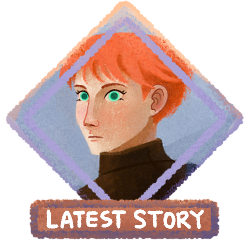
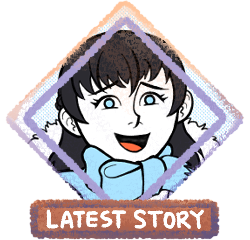
unc update

diff --git a/public/stories/story-12.html b/public/stories/story-12.html
@@ -46,7 +46,7 @@
         </tbody>
     </table>
 
-    <p style="text-align: center;">Jump to: <a href="#part2">Part 2</a></p>
+    <p style="text-align: center;">Jump to: <a href="#part2">Part 2</a> | <a href="#part3">Part 3</a></p>
 
     <img style="margin-top: 30px;" src="https://gallery.eousercontent.com/45fed8ce-b513-11ef-8295-2d7ea4f395ef%2Fmedia-manager%2F1772328641208-sf%20-%20i%20merlin.jpg" alt="Cover art for 'I, Merlin'"/>
 
@@ -290,7 +290,7 @@
         <p>She waved farewell to the other rebels, turned around, and ran after Gavrill with a smile on her face.</p>
     </div>
 
-    <!-- <a name="part3 style="text-align: center; color: var(--text-color);"><p>&mdash;</p></a>
+    <a name="part3" style="text-align: center; color: var(--text-color);"><p>&mdash;</p></a>
     <p>With heavy feet and a heavier heart, Leyna Morozov dragged herself and her crushed dreams home. Gavrill Vorobyev was nowhere to be seen. He could&rsquo;ve walked down any of the many streets that the alleyway opened up to. It wasn&rsquo;t worth trying to look for him now &mdash; the sky was darkening overhead, and she didn&rsquo;t even know where he was going. The only street Leyna could search was the one that led her back home.</p>
     <div class="indented">
         <p>If only Abrek hadn&rsquo;t held her back with his incessant yapping! Leyna took in a sharp breath to calm herself. It was fine. He&rsquo;ll make up for it by inviting her to something he dragged Gavrill out for. Right? He had to. Leyna had already prepared a hypothetical space in her plans for Gavrill. She had also begun reviewing her mental checklist of requirements for her ideal boyfriend. Husband? Was she thinking too far? Either way, she <em>has</em> to see him again. Just in case.</p>
@@ -407,7 +407,7 @@
         <p>GROZNY, CHECHENYA IS INVADED BY RUSSIAN FORCES. INFANTRY UNITS ORGANISED AT CHECHEN BORDERS ARE MOBILISED TO ADVANCE TOWARDS THE CAPITAL CITY. SHELLINGS AND BOMBINGS THIS MONTH LEFT SEVERAL THOUSAND DEAD. IN A MONTH, AN ESTIMATE OF 18,000 WILL BE KILLED. IN TWO MONTHS, THE RUSSIAN ARMY WILL CAPTURE GROZNY.</p>
         <p>THE FIRST BATTLE OF GROZNY SPARKED THE FIRST CHECHEN WAR. INGUSH REBELS LENT THEIR AID TO THE CHECHENS IN THEIR FIGHT FOR INDEPENDENCE AGAINST THE RUSSIAN FEDERATION. AMONG THE REBELS WERE ABREK BALABANOV AND GAVRILL VOROBYEV.</p>
         <p>LEYNA MOROZOV CONTINUED HER DUTIES AS A STUDENT AT THE INGUSH STATE UNIVERSITY. SHE ALSO CONTINUED WORKED AS AN ENGLISH TEACHING ASSISTANT AND AS GAVRILL VOROBYEV&rsquo;S ENGLISH TUTOR.</p>
-    </div> -->
+    </div>
 
     <p style="text-align: center;">&mdash;</p>
     <p style="text-align: center;"><i>To be continued next week</i></p>

diff --git a/public/scripts/global.js b/public/scripts/global.js
@@ -1,5 +1,5 @@
 // UPDATE THE BELOW VAR FOR EACH UPDATE!!
-var latestStory = 12;
+var latestStory = 13;
 var storyURL = "story-";
 
 function storyButtons(index) {
